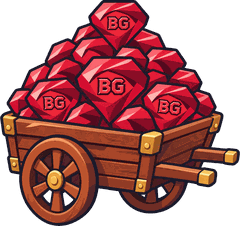
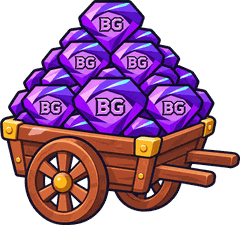
Rivales con su aspecto y su subsuelo; Candado y Setas; diamantes morados; carga en azul
- Los castillos rivales llevan aspecto: cada reino alterna dos de su tema en los vasallos
  y uno propio en el castillo real; en la batalla rápida, uno al azar. Volteados, con su
  arquero, su versión dañada y sus ruinas.
- El subsuelo mezcla tu tema (tu mitad) con el del rival (la suya), fundidos por el centro.
- Fortaleza del Candado y Castillo de las Setas: aspectos 19 y 20, con sus tres estados.
- Packs de diamantes de la Tienda, en morado.
- La pantalla de carga usa el fondo azul, como las demás.

Claude-Session: https://claude.ai/code/session_01JNP7QCwsBCjLSMGndzwo2W

diff --git a/docs/index.html b/docs/index.html
@@ -501,8 +501,7 @@ body.nav .screen.maps .mapscroll { padding-bottom: 0; }
 .loadbar { height: 22px; padding: 5px 7px; }
 .xpbar span, #loadfill { background: none; border-style: solid; border-image: url(img/ui/barra_relleno.png) 11 12 fill / 5px 6px; box-sizing: border-box; }
 /* fondos: la carga, con los héroes arriba y abajo y el logo en el hueco del centro; las demás pantallas, el azul */
-#carga { background: #131a31 url(img/ui/fondo_carga.jpg) center / cover no-repeat; }
-@media (orientation: landscape) { #carga { background: url(img/ui/fondo_carga.jpg) center / auto 100% no-repeat, linear-gradient(rgba(16,22,46,.72), rgba(16,22,46,.8)), #17306e url(img/ui/fondo_azul.jpg) center / cover no-repeat; } }   /* entero en el centro y, a los lados, el azul */
+#carga { background: linear-gradient(rgba(16,22,46,.5), rgba(16,22,46,.66)), #17306e url(img/ui/fondo_azul.jpg) center / cover no-repeat; }   /* el mismo fondo azul que las demás pantallas */
 #carga #loadtxt, #carga .tip { background: rgba(16,21,42,.78); border-radius: 12px; padding: 4px 12px; text-shadow: 0 1px 0 #000; }   /* legibles aunque pasen sobre los héroes */
 .screen.tabscr, .screen.hogar { background: linear-gradient(rgba(16,22,46,.62), rgba(16,22,46,.72)), #17306e url(img/ui/fondo_azul.jpg) center / cover no-repeat; }
 @media (orientation: landscape) and (max-height: 520px) { .side { top: calc(var(--st) + 70px); gap: 4px; } .sico { width: 38px; height: 38px; } .slbl { display: none; } .sbtn { width: 46px; } }
@@ -3533,7 +3532,10 @@ function castleArt(team, st = '') {
   const sk = CASTLE_SKIN[team];
   if (sk) {
     const s = st === '_danado' ? 'd' : st === '_destruido' ? 'r' : '', key = 'cas_' + sk.id + (s ? '_' + s : ''), ok = !s || (scene && scene.textures.exists(key));
-    if (ok || s === 'd') { const dy = ok && s && sk[s] ? sk[s].dy : 0; return { key: ok ? key : 'cas_' + sk.id, plat: [sk.plat[0], sk.plat[1] + dy], arch: [sk.arch[0], sk.arch[1] + dy] }; }
+    if (ok || s === 'd') {   // el rival lo tiene al revés (volteado): su arquero queda a la izquierda
+      const dy = ok && s && sk[s] ? sk[s].dy : 0, fx = x => team === 'purple' ? 520 - x : x;
+      return { key: ok ? key : 'cas_' + sk.id, plat: [fx(sk.plat[0]), sk.plat[1] + dy], arch: [fx(sk.arch[0]), sk.arch[1] + dy], flip: team === 'purple' };
+    }
   }
   return { key: CASTLE_ART[team].key + st, plat: CASTLE_ART[team].plat, arch: CASTLE_ART[team].arch };
 }
@@ -3640,7 +3642,7 @@ function drawCastleUI(dt) {
     const ci = castleImg[team], st = !c.alive ? '_destruido' : c.hp / c.max <= 0.5 ? '_danado' : '';
     if (ci.state !== st) {   // cambia de aspecto: polvo y cascotes
       if (ci.state !== undefined && B && B.t > 0.1) burst(ci.x, GROUND - 40, 0xbfc4d4, st === '_destruido' ? 30 : 14, st === '_destruido' ? 320 : 200);
-      ci.state = st; const A = castleArt(team, st); ci.setTexture(colorTex(A.key, TEAM_COLOR[team], TEAM_EMB[team]));
+      ci.state = st; const A = castleArt(team, st); ci.setTexture(colorTex(A.key, TEAM_COLOR[team], TEAM_EMB[team])).setFlipX(!!A.flip);
       ci.setOrigin(A.plat[0] / ci.width, A.plat[1] / ci.height).setScale(CASTLE_W / ci.width);
       const th = team === 'blue' ? throneImg : throneImgP;   // sin castillo no hay trono: cae entre los cascotes
       if (th) { scene.tweens.killTweensOf(th); if (st === '_destruido') scene.tweens.add({ targets: th, y: THRONE.y + 110, alpha: 0, angle: team === 'blue' ? 25 : -25, duration: 700, ease: 'Quad.in' }); else th.setPosition(team === 'blue' ? THRONE.x : W - THRONE.x, THRONE.y).setAlpha(1).setAngle(0); }
@@ -3780,7 +3782,7 @@ function drawScenery(sc) {
    en vertical, entre el camino y el panel de cartas; en horizontal, en la esquina libre. Si el dibujo no llega a cubrir todo
    el ancho, la tierra del medio se repite en espejo. Mientras se carga, uno provisional hecho aquí. ---- */
 const SUBSUELO = {"xa": 525, "xb": 922, "temas": {"arena": {"L": {"muro": [103, 296, 383, 473], "gemas": [[62, 410, 29, 35], [449, 410, 28, 35]]}, "R": {"muro": [1012, 296, 1311, 473], "gemas": [[1378, 410, 28, 34], [971, 411, 29, 34]]}, "fondo": "#af4f3d"}, "carnero": {"L": {"muro": [102, 299, 437, 488], "gemas": [[228, 251, 30, 34], [59, 411, 30, 38], [453, 411, 31, 38]]}, "R": {"muro": [1010, 300, 1380, 488], "gemas": [[1150, 251, 30, 34], [966, 412, 31, 37], [1393, 412, 30, 37]]}, "fondo": "#734145"}, "dragon": {"L": {"muro": [91, 297, 426, 490], "gemas": [[446, 413, 29, 34], [46, 414, 30, 33]]}, "R": {"muro": [997, 297, 1357, 490], "gemas": [[951, 413, 30, 35], [1376, 413, 29, 34]]}, "fondo": "#513d41"}, "engranaje": {"L": {"muro": [110, 296, 437, 498], "gemas": [[68, 418, 28, 36], [457, 418, 28, 37]]}, "R": {"muro": [1011, 296, 1363, 498], "gemas": [[968, 419, 28, 36], [1384, 419, 28, 36]]}, "fondo": "#4b4f6a"}, "escarabajo": {"L": {"muro": [97, 280, 433, 490], "gemas": [[52, 398, 31, 34], [448, 413, 29, 33]]}, "R": {"muro": [1004, 279, 1362, 490], "gemas": [[958, 398, 32, 35], [1377, 413, 29, 33]]}, "fondo": "#262d69"}, "farol": {"L": {"muro": [96, 293, 445, 500], "gemas": [[53, 416, 31, 38], [456, 416, 30, 38]]}, "R": {"muro": [1003, 293, 1369, 500], "gemas": [[960, 417, 30, 38], [1381, 417, 30, 37]]}, "fondo": "#654148"}, "golem": {"L": {"muro": [118, 300, 451, 502], "gemas": [[75, 411, 30, 37], [465, 411, 30, 38]]}, "R": {"muro": [1053, 300, 1389, 502], "gemas": [[1010, 412, 30, 37], [1402, 412, 29, 36]]}, "fondo": "#114949"}, "grifo": {"L": {"muro": [118, 296, 428, 490], "gemas": [[76, 412, 29, 35], [443, 412, 29, 35]]}, "R": {"muro": [1022, 296, 1361, 490], "gemas": [[981, 413, 29, 34], [1378, 413, 28, 34]]}, "fondo": "#505061"}, "hielo": {"L": {"muro": [96, 295, 439, 506], "gemas": [[51, 413, 30, 38], [450, 413, 30, 38]]}, "R": {"muro": [1016, 295, 1362, 505], "gemas": [[971, 413, 31, 38], [1376, 413, 31, 38]]}, "fondo": "#434a7a"}, "loto": {"L": {"muro": [110, 308, 429, 498], "gemas": [[71, 415, 28, 35], [446, 415, 27, 35]]}, "R": {"muro": [1031, 311, 1372, 498], "gemas": [[992, 415, 29, 35], [1388, 415, 28, 35]]}, "fondo": "#395e56"}, "luna": {"L": {"muro": [105, 302, 406, 473], "gemas": [[448, 414, 29, 36], [62, 415, 29, 35]]}, "R": {"muro": [1019, 302, 1327, 473], "gemas": [[1376, 414, 30, 37], [975, 415, 31, 35]]}, "fondo": "#4f5277"}, "marea": {"L": {"muro": [88, 290, 402, 476], "gemas": [[45, 412, 29, 38], [461, 414, 28, 37]]}, "R": {"muro": [1019, 292, 1383, 496], "gemas": [[973, 412, 29, 37], [1395, 415, 28, 36]]}, "fondo": "#e3b78c"}, "murcielago": {"L": {"muro": [103, 289, 449, 501], "gemas": [[62, 414, 30, 35], [462, 414, 29, 35]]}, "R": {"muro": [1022, 289, 1383, 501], "gemas": [[981, 415, 29, 35], [1397, 415, 29, 35]]}, "fondo": "#523f61"}, "pagoda": {"L": {"muro": [95, 290, 415, 486], "gemas": [[56, 412, 30, 39], [467, 412, 30, 39]]}, "R": {"muro": [1001, 294, 1321, 480], "gemas": [[1395, 413, 29, 38], [958, 414, 30, 37]]}, "fondo": "#6c405b"}, "piedra": {"L": {"muro": [100, 298, 452, 496], "gemas": [[59, 414, 28, 35], [449, 414, 28, 35]]}, "R": {"muro": [1000, 298, 1367, 496], "gemas": [[1386, 415, 28, 34], [959, 416, 28, 33]]}, "fondo": "#744e50"}, "roble": {"L": {"muro": [107, 294, 404, 490], "gemas": [[64, 407, 28, 36], [418, 408, 29, 35]]}, "R": {"muro": [1070, 294, 1365, 490], "gemas": [[1027, 409, 28, 33], [1382, 409, 28, 34]]}, "fondo": "#6c4445"}, "setas": {"L": {"muro": [117, 312, 440, 491], "gemas": [[75, 409, 29, 37], [452, 415, 27, 34]]}, "R": {"muro": [1047, 312, 1378, 491], "gemas": [[1005, 409, 29, 38], [1391, 416, 27, 33]]}, "fondo": "#335a67"}, "sol": {"L": {"muro": [123, 318, 424, 491], "gemas": [[80, 415, 28, 33], [439, 415, 28, 32]]}, "R": {"muro": [1051, 318, 1360, 491], "gemas": [[1379, 414, 27, 33], [1007, 416, 29, 32]]}, "fondo": "#70575b"}, "trueno": {"L": {"muro": [101, 291, 432, 491], "gemas": [[60, 405, 28, 35], [450, 410, 27, 34]]}, "R": {"muro": [1022, 290, 1360, 491], "gemas": [[981, 404, 28, 35], [1378, 411, 27, 33]]}, "fondo": "#686486"}, "vitral": {"L": {"muro": [110, 293, 433, 497], "gemas": [[66, 412, 28, 33], [450, 413, 28, 33]]}, "R": {"muro": [1036, 293, 1369, 497], "gemas": [[992, 413, 28, 33], [1387, 413, 28, 32]]}, "fondo": "#bd6371"}}};
-let SUB_Y = GROUND + 200, SUB_TEMA = 'piedra', SUB_L = null, subColorKey = null;   // dónde empieza, su tema y cómo se ha colocado (lo usa la cripta)
+let SUB_Y = GROUND + 200, SUB_TEMA = 'piedra', SUB_TEMA_P = 'piedra', SUB_L = null, subColorKey = null, subParKey = null;   // dónde empieza, su tema y cómo se ha colocado (lo usa la cripta)
 const subCarga = {};
 function subTex(tema, cb) {   // carga el dibujo de un tema con sus tres franjas: cripta, tierra y cripta
   const key = 'sub_' + tema; if (!scene || !SUBSUELO.temas[tema]) return;
@@ -3796,13 +3798,26 @@ function subFranjas(tex) {
   const w = tex.source[0].width, h = tex.source[0].height, { xa, xb } = SUBSUELO;
   tex.add('L', 0, 0, 0, xa, h); tex.add('M', 0, xa, 0, xb - xa, h); tex.add('R', 0, xb, 0, w - xb, h); return tex;
 }
-function subColor(sc, tema) {   // las gemas de cada cripta, con el color de su bando (cian y morado son los de siempre)
-  const base = 'sub_' + tema, cb = TEAM_COLOR.blue, cp = TEAM_COLOR.purple;
+function subPar(sc, a, b) {   // tu mitad con tu tema y la del rival con el suyo; la tierra del medio pasa de uno a otro poco a poco
+  if (a === b || !sc.textures.exists('sub_' + b)) return 'sub_' + a;
+  const key = 'subp_' + a + '|' + b; if (sc.textures.exists(key)) return key;
+  if (subParKey && sc.textures.exists(subParKey)) sc.textures.remove(subParKey);
+  const A = sc.textures.get('sub_' + a).getSourceImage(), Bi = sc.textures.get('sub_' + b).getSourceImage(), w = A.width, h = A.height, { xa, xb } = SUBSUELO;
+  const cv = document.createElement('canvas'); cv.width = w; cv.height = h; const c = cv.getContext('2d');
+  c.drawImage(A, 0, 0); c.drawImage(Bi, xb, 0, w - xb, h, xb, 0, w - xb, h);
+  const m = document.createElement('canvas'); m.width = xb - xa; m.height = h; const mc = m.getContext('2d');
+  mc.drawImage(Bi, xa, 0, xb - xa, h, 0, 0, xb - xa, h); mc.globalCompositeOperation = 'destination-in';
+  const g = mc.createLinearGradient(0, 0, xb - xa, 0); g.addColorStop(0.15, 'rgba(0,0,0,0)'); g.addColorStop(0.85, 'rgba(0,0,0,1)'); mc.fillStyle = g; mc.fillRect(0, 0, xb - xa, h);
+  c.drawImage(m, xa, 0);
+  subParKey = key; subFranjas(sc.textures.addCanvas(key, cv)); return key;
+}
+function subColor(sc, base, TL, TR) {   // las gemas de cada cripta, con el color de su bando (cian y morado son los de siempre)
+  const cb = TEAM_COLOR.blue, cp = TEAM_COLOR.purple;
   if (cb === 'azul' && cp === 'morado') return base;
   const key = base + '@' + cb + ',' + cp; if (sc.textures.exists(key)) return key;
   if (subColorKey && sc.textures.exists(subColorKey)) sc.textures.remove(subColorKey);   // solo se guarda la última
   const src = sc.textures.get(base).getSourceImage(), cv = document.createElement('canvas'); cv.width = src.width; cv.height = src.height;
-  const c = cv.getContext('2d', { willReadFrequently: true }), T = SUBSUELO.temas[tema]; c.drawImage(src, 0, 0);
+  const c = cv.getContext('2d', { willReadFrequently: true }), T = { L: TL.L, R: TR.R }; c.drawImage(src, 0, 0);
   for (const [lado, col, def, h0, h1] of [['L', cb, 'azul', 0.44, 0.58], ['R', cp, 'morado', 0.70, 0.86]]) {
     if (col === def || !COLORES[col]) continue;
     const t = [1, 3, 5].map(i => parseInt(COLORES[col][1].slice(i, i + 2), 16) / 255), dark = Math.max(...t) < 0.25, light = Math.min(...t) > 0.85;
@@ -3852,7 +3867,8 @@ function drawSubsuelo(sc, ytop, add, cx, vw, bot, grass) {
   SUB_Y = ytop; SUB_L = null;
   const T = SUBSUELO.temas[SUB_TEMA];
   if (!T || !sc.textures.exists('sub_' + SUB_TEMA)) { subTex(SUB_TEMA, () => drawScenery(scene)); return subsueloProv(sc, ytop, add, cx, vw, bot, grass); }
-  const key = subColor(sc, SUB_TEMA), src = sc.textures.get(key).getSourceImage(), IW = src.width, IH = src.height, { xa, xb } = SUBSUELO;
+  const TP = SUBSUELO.temas[SUB_TEMA_P] && sc.textures.exists('sub_' + SUB_TEMA_P) ? SUBSUELO.temas[SUB_TEMA_P] : T;
+  const key = subColor(sc, subPar(sc, SUB_TEMA, TP === T ? SUB_TEMA : SUB_TEMA_P), T, TP), src = sc.textures.get(key).getSourceImage(), IW = src.width, IH = src.height, { xa, xb } = SUBSUELO;
   // lo que se ve del subsuelo (en píxeles css): en batalla, hasta el panel de cartas o, en horizontal, la esquina libre a su lado
   const z = cam.zoom, k = DPR / z, left = cx - vw / 2, top = bot - cam.height / z, ug = (ytop - top) / k, ih = window.innerHeight;
   let Hc = (ih - ug) * k, Wc = vw, esq = false;
@@ -5672,11 +5688,12 @@ const DEFENSAS = {
 const defLv = k => (perfil.def || {})[k] || 0;
 const defCoste = k => Math.round(DEFENSAS[k].base * Math.pow(1.32, defLv(k)) / 10) * 10;
 // aspectos del castillo: dibujos propios (img/castillos) con el suelo del torreón, el arquero y el estandarte grande de cada uno
-const ASPECTOS_POS = {"arena": {"h": 456, "plat": [260, 91], "arch": [489, 131], "ban": [0.3942, 0.3772, 0.0885, 0.2061], "d": {"dy": 0, "h": 459, "ban": [0.3942, 0.3747, 0.0904, 0.1852]}, "r": {"dy": 0, "h": 458}}, "carnero": {"h": 434, "plat": [260, 87], "arch": [485, 99], "ban": [0.4615, 0.3571, 0.075, 0.1705], "d": {"dy": 0, "h": 438, "ban": [0.4615, 0.3539, 0.0769, 0.1667]}, "r": {"dy": 0, "h": 434}}, "dragon": {"h": 450, "plat": [260, 90], "arch": [477, 129], "ban": [0.4058, 0.3978, 0.0865, 0.1822], "d": {"dy": 1, "h": 456, "ban": [0.4038, 0.3925, 0.0904, 0.1601]}, "r": {"dy": 0, "h": 457}}, "engranaje": {"h": 449, "plat": [260, 90], "arch": [479, 122], "ban": [0.4115, 0.3608, 0.0788, 0.2183], "d": {"dy": 1, "h": 457, "ban": [0.4096, 0.3567, 0.0846, 0.1904]}, "r": {"dy": 0, "h": 456}}, "escarabajo": {"h": 444, "plat": [260, 89], "arch": [485, 125], "ban": [0.4346, 0.3401, 0.0712, 0.1644], "d": {"dy": 2, "h": 449, "ban": [0.4346, 0.3408, 0.0788, 0.1604]}, "r": {"dy": 0, "h": 447}}, "farol": {"h": 462, "plat": [260, 92], "arch": [485, 135], "ban": [0.4365, 0.3853, 0.0827, 0.1667], "d": {"dy": 3, "h": 468, "ban": [0.4365, 0.3868, 0.0885, 0.1624]}, "r": {"dy": 0, "h": 462}}, "golem": {"h": 455, "plat": [260, 91], "arch": [482, 132], "ban": [0.4577, 0.3736, 0.0827, 0.156], "d": {"dy": 3, "h": 461, "ban": [0.4577, 0.3731, 0.0808, 0.1584]}, "r": {"dy": 0, "h": 457}}, "grifo": {"h": 456, "plat": [260, 91], "arch": [486, 131], "ban": [0.4019, 0.3991, 0.0981, 0.2061], "d": {"dy": 3, "h": 462, "ban": [0.4019, 0.4004, 0.1, 0.1797]}, "r": {"dy": 0, "h": 461}}, "hielo": {"h": 472, "plat": [260, 94], "arch": [486, 136], "ban": [0.4038, 0.3792, 0.0923, 0.2055], "d": {"dy": 1, "h": 477, "ban": [0.4038, 0.3774, 0.0942, 0.1866]}, "r": {"dy": 0, "h": 474}}, "loto": {"h": 456, "plat": [260, 91], "arch": [483, 136], "ban": [0.4538, 0.3684, 0.0788, 0.1776], "d": {"dy": 2, "h": 458, "ban": [0.4538, 0.369, 0.0788, 0.1659]}, "r": {"dy": 0, "h": 456}}, "luna": {"h": 467, "plat": [260, 93], "arch": [481, 135], "ban": [0.3904, 0.3919, 0.0808, 0.197], "d": {"dy": 2, "h": 472, "ban": [0.3904, 0.3919, 0.0846, 0.1801]}, "r": {"dy": 0, "h": 467}}, "marea": {"h": 463, "plat": [260, 93], "arch": [482, 138], "ban": [0.4019, 0.3888, 0.0846, 0.203], "d": {"dy": 0, "h": 463, "ban": [0.4, 0.3888, 0.0885, 0.1836]}, "r": {"dy": 0, "h": 463}}, "murcielago": {"h": 447, "plat": [260, 89], "arch": [480, 129], "ban": [0.4596, 0.3714, 0.0808, 0.179], "d": {"dy": 1, "h": 449, "ban": [0.4596, 0.3719, 0.0808, 0.1804]}, "r": {"dy": 0, "h": 456}}, "pagoda": {"h": 440, "plat": [260, 88], "arch": [482, 122], "ban": [0.4654, 0.4205, 0.0692, 0.1523], "d": {"dy": 1, "h": 443, "ban": [0.4654, 0.4199, 0.0712, 0.1693]}, "r": {"dy": 0, "h": 442}}, "roble": {"h": 458, "plat": [260, 92], "arch": [480, 140], "ban": [0.4038, 0.3908, 0.0827, 0.2074], "d": {"dy": 0, "h": 459, "ban": [0.4038, 0.39, 0.0846, 0.1743]}, "r": {"dy": 0, "h": 459}}, "sol": {"h": 427, "plat": [260, 85], "arch": [484, 115], "ban": [0.4481, 0.3653, 0.0654, 0.1522], "d": {"dy": 0, "h": 429, "ban": [0.4481, 0.3636, 0.0769, 0.1422]}, "r": {"dy": 0, "h": 435}}, "trueno": {"h": 434, "plat": [260, 87], "arch": [478, 130], "ban": [0.4212, 0.3917, 0.0827, 0.2166], "d": {"dy": 5, "h": 441, "ban": [0.4212, 0.3968, 0.0885, 0.1701]}, "r": {"dy": 0, "h": 434}}, "vitral": {"h": 468, "plat": [260, 94], "arch": [482, 146], "ban": [0.4269, 0.3697, 0.0827, 0.1752], "d": {"dy": 3, "h": 473, "ban": [0.4288, 0.3721, 0.0808, 0.1522]}, "r": {"dy": 0, "h": 468}}};
+const ASPECTOS_POS = {"arena": {"h": 456, "plat": [260, 91], "arch": [489, 131], "ban": [0.3942, 0.3772, 0.0885, 0.2061], "d": {"dy": 0, "h": 459, "ban": [0.3942, 0.3747, 0.0904, 0.1852]}, "r": {"dy": 0, "h": 458}}, "candado": {"h": 433, "plat": [260, 87], "arch": [488, 123], "ban": [0.4519, 0.3764, 0.0788, 0.1848], "d": {"dy": 2, "h": 437, "ban": [0.4519, 0.3753, 0.0865, 0.167]}, "r": {"dy": 0, "h": 433}}, "carnero": {"h": 434, "plat": [260, 87], "arch": [485, 99], "ban": [0.4615, 0.3571, 0.075, 0.1705], "d": {"dy": 0, "h": 438, "ban": [0.4615, 0.3539, 0.0769, 0.1667]}, "r": {"dy": 0, "h": 434}}, "dragon": {"h": 450, "plat": [260, 90], "arch": [477, 129], "ban": [0.4058, 0.3978, 0.0865, 0.1822], "d": {"dy": 1, "h": 456, "ban": [0.4038, 0.3925, 0.0904, 0.1601]}, "r": {"dy": 0, "h": 457}}, "engranaje": {"h": 449, "plat": [260, 90], "arch": [479, 122], "ban": [0.4115, 0.3608, 0.0788, 0.2183], "d": {"dy": 1, "h": 457, "ban": [0.4096, 0.3567, 0.0846, 0.1904]}, "r": {"dy": 0, "h": 456}}, "escarabajo": {"h": 444, "plat": [260, 89], "arch": [485, 125], "ban": [0.4346, 0.3401, 0.0712, 0.1644], "d": {"dy": 2, "h": 449, "ban": [0.4346, 0.3408, 0.0788, 0.1604]}, "r": {"dy": 0, "h": 447}}, "farol": {"h": 462, "plat": [260, 92], "arch": [485, 135], "ban": [0.4365, 0.3853, 0.0827, 0.1667], "d": {"dy": 3, "h": 468, "ban": [0.4365, 0.3868, 0.0885, 0.1624]}, "r": {"dy": 0, "h": 462}}, "golem": {"h": 455, "plat": [260, 91], "arch": [482, 132], "ban": [0.4577, 0.3736, 0.0827, 0.156], "d": {"dy": 3, "h": 461, "ban": [0.4577, 0.3731, 0.0808, 0.1584]}, "r": {"dy": 0, "h": 457}}, "grifo": {"h": 456, "plat": [260, 91], "arch": [486, 131], "ban": [0.4019, 0.3991, 0.0981, 0.2061], "d": {"dy": 3, "h": 462, "ban": [0.4019, 0.4004, 0.1, 0.1797]}, "r": {"dy": 0, "h": 461}}, "hielo": {"h": 472, "plat": [260, 94], "arch": [486, 136], "ban": [0.4038, 0.3792, 0.0923, 0.2055], "d": {"dy": 1, "h": 477, "ban": [0.4038, 0.3774, 0.0942, 0.1866]}, "r": {"dy": 0, "h": 474}}, "loto": {"h": 456, "plat": [260, 91], "arch": [483, 136], "ban": [0.4538, 0.3684, 0.0788, 0.1776], "d": {"dy": 2, "h": 458, "ban": [0.4538, 0.369, 0.0788, 0.1659]}, "r": {"dy": 0, "h": 456}}, "luna": {"h": 467, "plat": [260, 93], "arch": [481, 135], "ban": [0.3904, 0.3919, 0.0808, 0.197], "d": {"dy": 2, "h": 472, "ban": [0.3904, 0.3919, 0.0846, 0.1801]}, "r": {"dy": 0, "h": 467}}, "marea": {"h": 463, "plat": [260, 93], "arch": [482, 138], "ban": [0.4019, 0.3888, 0.0846, 0.203], "d": {"dy": 0, "h": 463, "ban": [0.4, 0.3888, 0.0885, 0.1836]}, "r": {"dy": 0, "h": 463}}, "murcielago": {"h": 447, "plat": [260, 89], "arch": [480, 129], "ban": [0.4596, 0.3714, 0.0808, 0.179], "d": {"dy": 1, "h": 449, "ban": [0.4596, 0.3719, 0.0808, 0.1804]}, "r": {"dy": 0, "h": 456}}, "pagoda": {"h": 440, "plat": [260, 88], "arch": [482, 122], "ban": [0.4654, 0.4205, 0.0692, 0.1523], "d": {"dy": 1, "h": 443, "ban": [0.4654, 0.4199, 0.0712, 0.1693]}, "r": {"dy": 0, "h": 442}}, "roble": {"h": 458, "plat": [260, 92], "arch": [480, 140], "ban": [0.4038, 0.3908, 0.0827, 0.2074], "d": {"dy": 0, "h": 459, "ban": [0.4038, 0.39, 0.0846, 0.1743]}, "r": {"dy": 0, "h": 459}}, "setas": {"h": 454, "plat": [260, 91], "arch": [484, 134], "ban": [0.4404, 0.3855, 0.0885, 0.1828], "d": {"dy": 1, "h": 455, "ban": [0.4404, 0.3868, 0.0885, 0.178]}, "r": {"dy": 0, "h": 455}}, "sol": {"h": 427, "plat": [260, 85], "arch": [484, 115], "ban": [0.4481, 0.3653, 0.0654, 0.1522], "d": {"dy": 0, "h": 429, "ban": [0.4481, 0.3636, 0.0769, 0.1422]}, "r": {"dy": 0, "h": 435}}, "trueno": {"h": 434, "plat": [260, 87], "arch": [478, 130], "ban": [0.4212, 0.3917, 0.0827, 0.2166], "d": {"dy": 5, "h": 441, "ban": [0.4212, 0.3968, 0.0885, 0.1701]}, "r": {"dy": 0, "h": 434}}, "vitral": {"h": 468, "plat": [260, 94], "arch": [482, 146], "ban": [0.4269, 0.3697, 0.0827, 0.1752], "d": {"dy": 3, "h": 473, "ban": [0.4288, 0.3721, 0.0808, 0.1522]}, "r": {"dy": 0, "h": 468}}};
 const ASPECTOS = [['piedra', 'Castillo de piedra'], ['roble', 'Fortaleza del Roble'], ['luna', 'Castillo Lunar'], ['vitral', 'Catedral de Vitrales'], ['marea', 'Alcázar de las Mareas'],
   ['dragon', 'Fortaleza del Dragón'], ['engranaje', 'Castillo de Engranajes'], ['hielo', 'Fortaleza de Hielo'], ['grifo', 'Alcázar del Grifo'], ['arena', 'Fortaleza de Arena'],
   ['trueno', 'Castillo del Trueno'], ['pagoda', 'Castillo Pagoda'], ['farol', 'Castillo de los Faroles'], ['carnero', 'Fortín del Carnero'], ['escarabajo', 'Templo del Escarabajo'],
-  ['golem', 'Fortaleza Gólem'], ['murcielago', 'Castillo del Murciélago'], ['loto', 'Palacio del Loto'], ['sol', 'Ciudadela del Sol']];
+  ['golem', 'Fortaleza Gólem'], ['murcielago', 'Castillo del Murciélago'], ['loto', 'Palacio del Loto'], ['sol', 'Ciudadela del Sol'],
+  ['candado', 'Fortaleza del Candado'], ['setas', 'Castillo de las Setas']];
 const ASP_PRECIO = 150;
 for (const [id, v] of Object.entries(ASPECTOS_POS)) if (v.ban) { BANNERS['cas_' + id] = v.ban; BANNERS['cas_' + id + '_d'] = (v.d && v.d.ban) || v.ban; }
 const aspTiene = id => id === 'piedra' || perfil.all || (perfil.aspectos || []).includes(id);
@@ -5881,12 +5898,27 @@ function atkK(u) { return moveK(u); }   // la velocidad de ataque sigue a la de 
 const _ghR = gullHaste;
 gullHaste = function (u) { return _ghR(u) * (mode === 'fight' && B && !B.idle ? moveK(u) : 1); };
 const teamBuffK = team => team === 'blue' && B && B.beast && B.beast.id === 'grifo' ? 1 + B.beast.v : 1;
+// aspecto de los castillos rivales: los vasallos de cada reino alternan dos de su tema y el castillo real lleva el suyo;
+// en la batalla rápida (y en la del menú), uno al azar. 'piedra' es el castillo de siempre
+const RIVAL_ASP = { praderas: [['piedra', 'roble'], 'grifo'], bosque: [['roble', 'pagoda'], 'golem'], desierto: [['arena', 'escarabajo'], 'sol'],
+  nieve: [['hielo', 'luna'], 'trueno'], pantano: [['loto', 'murcielago'], 'golem'], volcan: [['farol', 'dragon'], 'dragon'], playa: [['marea', 'vitral'], 'marea'],
+  setas: [['setas', 'loto'], 'setas'], huesos: [['carnero', 'murcielago'], 'dragon'], engranajes: [['engranaje', 'candado'], 'engranaje'],
+  cristal: [['vitral', 'luna'], 'vitral'], cementerio: [['murcielago', 'candado'], 'murcielago'], cielo: [['grifo', 'sol'], 'pagoda'] };
+function rivalAspecto(o) {
+  if (o.run && o.run.kind === 'nivel') { const r = RIVAL_ASP[o.run.k], lv = KD(o.run.k).levels[o.run.i]; return !r ? null : lv.royal ? r[1] : r[0][o.run.i % r[0].length]; }
+  const ids = ASPECTOS.map(a => a[0]); return ids[Math.floor(Math.random() * ids.length)];
+}
 const _resetR = resetBattle;
 resetBattle = function (o = {}) {
   _resetR(o);
   const sk = mySkin(); CASTLE_SKIN.blue = sk && scene && scene.textures.exists('cas_' + sk) ? Object.assign({ id: sk }, ASPECTOS_POS[sk]) : null;
   SUB_TEMA = SUBSUELO.temas[sk] ? sk : 'piedra';   // el subsuelo, con las criptas a juego con tu castillo
   if (!o.sim && scene) subTex(SUB_TEMA, () => drawScenery(scene));
+  // el rival, con su aspecto, su subsuelo y su cripta
+  const ps = o.sim ? null : rivalAspecto(o), esta = B; CASTLE_SKIN.purple = null; if (castleImg.purple) castleImg.purple.state = undefined;
+  SUB_TEMA_P = SUBSUELO.temas[ps] ? ps : 'piedra';
+  if (ps && ps !== 'piedra' && ASPECTOS_POS[ps] && scene) skinTex(ps, () => { if (B !== esta) return; CASTLE_SKIN.purple = Object.assign({ id: ps }, ASPECTOS_POS[ps]); if (castleImg.purple) castleImg.purple.state = undefined; });
+  if (!o.sim && scene) subTex(SUB_TEMA_P, () => { if (B === esta) drawScenery(scene); });
   if (sk && !CASTLE_SKIN.blue) skinTex(sk);
   if (castleImg.blue) castleImg.blue.state = undefined;   // se vuelve a pintar con su aspecto
   const real = !o.demo && !o.sim;
@@ -6154,7 +6186,7 @@ loaded = function () { _loadedR(); skinTex(mySkin()); subTex(SUBSUELO.temas[mySk
 const _dsR = drawScenery;
 drawScenery = function (sc) { _dsR(sc); colocaCripta(); };
 window.__sub = () => { const gm = window.__game, z = cam.zoom, k = DPR / z; return { SUB_Y, k, left: cam.scrollX + cam.width / 2 - gm.scale.width / 2 / z, top: cam.scrollY + cam.height / 2 - gm.scale.height / 2 / z, vw: gm.scale.width / z, cripta: CRIPTA && { x: CRIPTA.x, y: CRIPTA.y, w: CRIPTA.w, h: CRIPTA.h }, tema: SUB_TEMA, capa: SUB_L && { s: SUB_L.s, yi: SUB_L.yi, Lx: SUB_L.Lx, Rx: SUB_L.Rx, esq: SUB_L.esq }, bst: BST && { x: BST.x, y: BST.y, h: BST.displayHeight, v: BST.visible } }; };
-window.__B = () => B; window.__skin = () => CASTLE_SKIN.blue; window.__openHogar = openHogar; window.__openEdif = openEdif; window.__lanzar = lanzar; window.__cuartel = () => cuSlots();
+window.__B = () => B; window.__skin = () => CASTLE_SKIN.blue; window.__skinP = () => CASTLE_SKIN.purple && CASTLE_SKIN.purple.id; window.__openHogar = openHogar; window.__openEdif = openEdif; window.__lanzar = lanzar; window.__cuartel = () => cuSlots();
 
 /* ==== Eventos. Fijo: el Abismo del Despertar. Cada día espera en el fondo una unidad distinta: si es legendaria hay que bajar
    50 niveles; si es ascendida, 60. En cada nivel hay 4 caminos: 3 bajan (y dan botín) y 1 lleva al vacío o a la lava.

diff --git a/prototipos/batalla/batalla.js b/prototipos/batalla/batalla.js
@@ -27,7 +27,10 @@ function castleArt(team, st = '') {
   const sk = CASTLE_SKIN[team];
   if (sk) {
     const s = st === '_danado' ? 'd' : st === '_destruido' ? 'r' : '', key = 'cas_' + sk.id + (s ? '_' + s : ''), ok = !s || (scene && scene.textures.exists(key));
-    if (ok || s === 'd') { const dy = ok && s && sk[s] ? sk[s].dy : 0; return { key: ok ? key : 'cas_' + sk.id, plat: [sk.plat[0], sk.plat[1] + dy], arch: [sk.arch[0], sk.arch[1] + dy] }; }
+    if (ok || s === 'd') {   // el rival lo tiene al revés (volteado): su arquero queda a la izquierda
+      const dy = ok && s && sk[s] ? sk[s].dy : 0, fx = x => team === 'purple' ? 520 - x : x;
+      return { key: ok ? key : 'cas_' + sk.id, plat: [fx(sk.plat[0]), sk.plat[1] + dy], arch: [fx(sk.arch[0]), sk.arch[1] + dy], flip: team === 'purple' };
+    }
   }
   return { key: CASTLE_ART[team].key + st, plat: CASTLE_ART[team].plat, arch: CASTLE_ART[team].arch };
 }
@@ -134,7 +137,7 @@ function drawCastleUI(dt) {
     const ci = castleImg[team], st = !c.alive ? '_destruido' : c.hp / c.max <= 0.5 ? '_danado' : '';
     if (ci.state !== st) {   // cambia de aspecto: polvo y cascotes
       if (ci.state !== undefined && B && B.t > 0.1) burst(ci.x, GROUND - 40, 0xbfc4d4, st === '_destruido' ? 30 : 14, st === '_destruido' ? 320 : 200);
-      ci.state = st; const A = castleArt(team, st); ci.setTexture(colorTex(A.key, TEAM_COLOR[team], TEAM_EMB[team]));
+      ci.state = st; const A = castleArt(team, st); ci.setTexture(colorTex(A.key, TEAM_COLOR[team], TEAM_EMB[team])).setFlipX(!!A.flip);
       ci.setOrigin(A.plat[0] / ci.width, A.plat[1] / ci.height).setScale(CASTLE_W / ci.width);
       const th = team === 'blue' ? throneImg : throneImgP;   // sin castillo no hay trono: cae entre los cascotes
       if (th) { scene.tweens.killTweensOf(th); if (st === '_destruido') scene.tweens.add({ targets: th, y: THRONE.y + 110, alpha: 0, angle: team === 'blue' ? 25 : -25, duration: 700, ease: 'Quad.in' }); else th.setPosition(team === 'blue' ? THRONE.x : W - THRONE.x, THRONE.y).setAlpha(1).setAngle(0); }
@@ -274,7 +277,7 @@ function drawScenery(sc) {
    en vertical, entre el camino y el panel de cartas; en horizontal, en la esquina libre. Si el dibujo no llega a cubrir todo
    el ancho, la tierra del medio se repite en espejo. Mientras se carga, uno provisional hecho aquí. ---- */
 const SUBSUELO = __SUBSUELO__;
-let SUB_Y = GROUND + 200, SUB_TEMA = 'piedra', SUB_L = null, subColorKey = null;   // dónde empieza, su tema y cómo se ha colocado (lo usa la cripta)
+let SUB_Y = GROUND + 200, SUB_TEMA = 'piedra', SUB_TEMA_P = 'piedra', SUB_L = null, subColorKey = null, subParKey = null;   // dónde empieza, su tema y cómo se ha colocado (lo usa la cripta)
 const subCarga = {};
 function subTex(tema, cb) {   // carga el dibujo de un tema con sus tres franjas: cripta, tierra y cripta
   const key = 'sub_' + tema; if (!scene || !SUBSUELO.temas[tema]) return;
@@ -290,13 +293,26 @@ function subFranjas(tex) {
   const w = tex.source[0].width, h = tex.source[0].height, { xa, xb } = SUBSUELO;
   tex.add('L', 0, 0, 0, xa, h); tex.add('M', 0, xa, 0, xb - xa, h); tex.add('R', 0, xb, 0, w - xb, h); return tex;
 }
-function subColor(sc, tema) {   // las gemas de cada cripta, con el color de su bando (cian y morado son los de siempre)
-  const base = 'sub_' + tema, cb = TEAM_COLOR.blue, cp = TEAM_COLOR.purple;
+function subPar(sc, a, b) {   // tu mitad con tu tema y la del rival con el suyo; la tierra del medio pasa de uno a otro poco a poco
+  if (a === b || !sc.textures.exists('sub_' + b)) return 'sub_' + a;
+  const key = 'subp_' + a + '|' + b; if (sc.textures.exists(key)) return key;
+  if (subParKey && sc.textures.exists(subParKey)) sc.textures.remove(subParKey);
+  const A = sc.textures.get('sub_' + a).getSourceImage(), Bi = sc.textures.get('sub_' + b).getSourceImage(), w = A.width, h = A.height, { xa, xb } = SUBSUELO;
+  const cv = document.createElement('canvas'); cv.width = w; cv.height = h; const c = cv.getContext('2d');
+  c.drawImage(A, 0, 0); c.drawImage(Bi, xb, 0, w - xb, h, xb, 0, w - xb, h);
+  const m = document.createElement('canvas'); m.width = xb - xa; m.height = h; const mc = m.getContext('2d');
+  mc.drawImage(Bi, xa, 0, xb - xa, h, 0, 0, xb - xa, h); mc.globalCompositeOperation = 'destination-in';
+  const g = mc.createLinearGradient(0, 0, xb - xa, 0); g.addColorStop(0.15, 'rgba(0,0,0,0)'); g.addColorStop(0.85, 'rgba(0,0,0,1)'); mc.fillStyle = g; mc.fillRect(0, 0, xb - xa, h);
+  c.drawImage(m, xa, 0);
+  subParKey = key; subFranjas(sc.textures.addCanvas(key, cv)); return key;
+}
+function subColor(sc, base, TL, TR) {   // las gemas de cada cripta, con el color de su bando (cian y morado son los de siempre)
+  const cb = TEAM_COLOR.blue, cp = TEAM_COLOR.purple;
   if (cb === 'azul' && cp === 'morado') return base;
   const key = base + '@' + cb + ',' + cp; if (sc.textures.exists(key)) return key;
   if (subColorKey && sc.textures.exists(subColorKey)) sc.textures.remove(subColorKey);   // solo se guarda la última
   const src = sc.textures.get(base).getSourceImage(), cv = document.createElement('canvas'); cv.width = src.width; cv.height = src.height;
-  const c = cv.getContext('2d', { willReadFrequently: true }), T = SUBSUELO.temas[tema]; c.drawImage(src, 0, 0);
+  const c = cv.getContext('2d', { willReadFrequently: true }), T = { L: TL.L, R: TR.R }; c.drawImage(src, 0, 0);
   for (const [lado, col, def, h0, h1] of [['L', cb, 'azul', 0.44, 0.58], ['R', cp, 'morado', 0.70, 0.86]]) {
     if (col === def || !COLORES[col]) continue;
     const t = [1, 3, 5].map(i => parseInt(COLORES[col][1].slice(i, i + 2), 16) / 255), dark = Math.max(...t) < 0.25, light = Math.min(...t) > 0.85;
@@ -346,7 +362,8 @@ function drawSubsuelo(sc, ytop, add, cx, vw, bot, grass) {
   SUB_Y = ytop; SUB_L = null;
   const T = SUBSUELO.temas[SUB_TEMA];
   if (!T || !sc.textures.exists('sub_' + SUB_TEMA)) { subTex(SUB_TEMA, () => drawScenery(scene)); return subsueloProv(sc, ytop, add, cx, vw, bot, grass); }
-  const key = subColor(sc, SUB_TEMA), src = sc.textures.get(key).getSourceImage(), IW = src.width, IH = src.height, { xa, xb } = SUBSUELO;
+  const TP = SUBSUELO.temas[SUB_TEMA_P] && sc.textures.exists('sub_' + SUB_TEMA_P) ? SUBSUELO.temas[SUB_TEMA_P] : T;
+  const key = subColor(sc, subPar(sc, SUB_TEMA, TP === T ? SUB_TEMA : SUB_TEMA_P), T, TP), src = sc.textures.get(key).getSourceImage(), IW = src.width, IH = src.height, { xa, xb } = SUBSUELO;
   // lo que se ve del subsuelo (en píxeles css): en batalla, hasta el panel de cartas o, en horizontal, la esquina libre a su lado
   const z = cam.zoom, k = DPR / z, left = cx - vw / 2, top = bot - cam.height / z, ug = (ytop - top) / k, ih = window.innerHeight;
   let Hc = (ih - ug) * k, Wc = vw, esq = false;

diff --git a/prototipos/batalla/reino.js b/prototipos/batalla/reino.js
@@ -131,7 +131,8 @@ const ASPECTOS_POS = __ASPECTOS__;
 const ASPECTOS = [['piedra', 'Castillo de piedra'], ['roble', 'Fortaleza del Roble'], ['luna', 'Castillo Lunar'], ['vitral', 'Catedral de Vitrales'], ['marea', 'Alcázar de las Mareas'],
   ['dragon', 'Fortaleza del Dragón'], ['engranaje', 'Castillo de Engranajes'], ['hielo', 'Fortaleza de Hielo'], ['grifo', 'Alcázar del Grifo'], ['arena', 'Fortaleza de Arena'],
   ['trueno', 'Castillo del Trueno'], ['pagoda', 'Castillo Pagoda'], ['farol', 'Castillo de los Faroles'], ['carnero', 'Fortín del Carnero'], ['escarabajo', 'Templo del Escarabajo'],
-  ['golem', 'Fortaleza Gólem'], ['murcielago', 'Castillo del Murciélago'], ['loto', 'Palacio del Loto'], ['sol', 'Ciudadela del Sol']];
+  ['golem', 'Fortaleza Gólem'], ['murcielago', 'Castillo del Murciélago'], ['loto', 'Palacio del Loto'], ['sol', 'Ciudadela del Sol'],
+  ['candado', 'Fortaleza del Candado'], ['setas', 'Castillo de las Setas']];
 const ASP_PRECIO = 150;
 for (const [id, v] of Object.entries(ASPECTOS_POS)) if (v.ban) { BANNERS['cas_' + id] = v.ban; BANNERS['cas_' + id + '_d'] = (v.d && v.d.ban) || v.ban; }
 const aspTiene = id => id === 'piedra' || perfil.all || (perfil.aspectos || []).includes(id);
@@ -336,12 +337,27 @@ function atkK(u) { return moveK(u); }   // la velocidad de ataque sigue a la de 
 const _ghR = gullHaste;
 gullHaste = function (u) { return _ghR(u) * (mode === 'fight' && B && !B.idle ? moveK(u) : 1); };
 const teamBuffK = team => team === 'blue' && B && B.beast && B.beast.id === 'grifo' ? 1 + B.beast.v : 1;
+// aspecto de los castillos rivales: los vasallos de cada reino alternan dos de su tema y el castillo real lleva el suyo;
+// en la batalla rápida (y en la del menú), uno al azar. 'piedra' es el castillo de siempre
+const RIVAL_ASP = { praderas: [['piedra', 'roble'], 'grifo'], bosque: [['roble', 'pagoda'], 'golem'], desierto: [['arena', 'escarabajo'], 'sol'],
+  nieve: [['hielo', 'luna'], 'trueno'], pantano: [['loto', 'murcielago'], 'golem'], volcan: [['farol', 'dragon'], 'dragon'], playa: [['marea', 'vitral'], 'marea'],
+  setas: [['setas', 'loto'], 'setas'], huesos: [['carnero', 'murcielago'], 'dragon'], engranajes: [['engranaje', 'candado'], 'engranaje'],
+  cristal: [['vitral', 'luna'], 'vitral'], cementerio: [['murcielago', 'candado'], 'murcielago'], cielo: [['grifo', 'sol'], 'pagoda'] };
+function rivalAspecto(o) {
+  if (o.run && o.run.kind === 'nivel') { const r = RIVAL_ASP[o.run.k], lv = KD(o.run.k).levels[o.run.i]; return !r ? null : lv.royal ? r[1] : r[0][o.run.i % r[0].length]; }
+  const ids = ASPECTOS.map(a => a[0]); return ids[Math.floor(Math.random() * ids.length)];
+}
 const _resetR = resetBattle;
 resetBattle = function (o = {}) {
   _resetR(o);
   const sk = mySkin(); CASTLE_SKIN.blue = sk && scene && scene.textures.exists('cas_' + sk) ? Object.assign({ id: sk }, ASPECTOS_POS[sk]) : null;
   SUB_TEMA = SUBSUELO.temas[sk] ? sk : 'piedra';   // el subsuelo, con las criptas a juego con tu castillo
   if (!o.sim && scene) subTex(SUB_TEMA, () => drawScenery(scene));
+  // el rival, con su aspecto, su subsuelo y su cripta
+  const ps = o.sim ? null : rivalAspecto(o), esta = B; CASTLE_SKIN.purple = null; if (castleImg.purple) castleImg.purple.state = undefined;
+  SUB_TEMA_P = SUBSUELO.temas[ps] ? ps : 'piedra';
+  if (ps && ps !== 'piedra' && ASPECTOS_POS[ps] && scene) skinTex(ps, () => { if (B !== esta) return; CASTLE_SKIN.purple = Object.assign({ id: ps }, ASPECTOS_POS[ps]); if (castleImg.purple) castleImg.purple.state = undefined; });
+  if (!o.sim && scene) subTex(SUB_TEMA_P, () => { if (B === esta) drawScenery(scene); });
   if (sk && !CASTLE_SKIN.blue) skinTex(sk);
   if (castleImg.blue) castleImg.blue.state = undefined;   // se vuelve a pintar con su aspecto
   const real = !o.demo && !o.sim;
@@ -609,4 +625,4 @@ loaded = function () { _loadedR(); skinTex(mySkin()); subTex(SUBSUELO.temas[mySk
 const _dsR = drawScenery;
 drawScenery = function (sc) { _dsR(sc); colocaCripta(); };
 window.__sub = () => { const gm = window.__game, z = cam.zoom, k = DPR / z; return { SUB_Y, k, left: cam.scrollX + cam.width / 2 - gm.scale.width / 2 / z, top: cam.scrollY + cam.height / 2 - gm.scale.height / 2 / z, vw: gm.scale.width / z, cripta: CRIPTA && { x: CRIPTA.x, y: CRIPTA.y, w: CRIPTA.w, h: CRIPTA.h }, tema: SUB_TEMA, capa: SUB_L && { s: SUB_L.s, yi: SUB_L.yi, Lx: SUB_L.Lx, Rx: SUB_L.Rx, esq: SUB_L.esq }, bst: BST && { x: BST.x, y: BST.y, h: BST.displayHeight, v: BST.visible } }; };
-window.__B = () => B; window.__skin = () => CASTLE_SKIN.blue; window.__openHogar = openHogar; window.__openEdif = openEdif; window.__lanzar = lanzar; window.__cuartel = () => cuSlots();
+window.__B = () => B; window.__skin = () => CASTLE_SKIN.blue; window.__skinP = () => CASTLE_SKIN.purple && CASTLE_SKIN.purple.id; window.__openHogar = openHogar; window.__openEdif = openEdif; window.__lanzar = lanzar; window.__cuartel = () => cuSlots();

diff --git a/prototipos/batalla/plantilla.html b/prototipos/batalla/plantilla.html
@@ -501,8 +501,7 @@ body.nav .screen.maps .mapscroll { padding-bottom: 0; }
 .loadbar { height: 22px; padding: 5px 7px; }
 .xpbar span, #loadfill { background: none; border-style: solid; border-image: url(img/ui/barra_relleno.png) 11 12 fill / 5px 6px; box-sizing: border-box; }
 /* fondos: la carga, con los héroes arriba y abajo y el logo en el hueco del centro; las demás pantallas, el azul */
-#carga { background: #131a31 url(img/ui/fondo_carga.jpg) center / cover no-repeat; }
-@media (orientation: landscape) { #carga { background: url(img/ui/fondo_carga.jpg) center / auto 100% no-repeat, linear-gradient(rgba(16,22,46,.72), rgba(16,22,46,.8)), #17306e url(img/ui/fondo_azul.jpg) center / cover no-repeat; } }   /* entero en el centro y, a los lados, el azul */
+#carga { background: linear-gradient(rgba(16,22,46,.5), rgba(16,22,46,.66)), #17306e url(img/ui/fondo_azul.jpg) center / cover no-repeat; }   /* el mismo fondo azul que las demás pantallas */
 #carga #loadtxt, #carga .tip { background: rgba(16,21,42,.78); border-radius: 12px; padding: 4px 12px; text-shadow: 0 1px 0 #000; }   /* legibles aunque pasen sobre los héroes */
 .screen.tabscr, .screen.hogar { background: linear-gradient(rgba(16,22,46,.62), rgba(16,22,46,.72)), #17306e url(img/ui/fondo_azul.jpg) center / cover no-repeat; }
 @media (orientation: landscape) and (max-height: 520px) { .side { top: calc(var(--st) + 70px); gap: 4px; } .sico { width: 38px; height: 38px; } .slbl { display: none; } .sbtn { width: 46px; } }

diff --git a/herramientas/interfaz_arte.py b/herramientas/interfaz_arte.py
@@ -1,4 +1,4 @@
-# Prepara el arte de la interfaz (assets/interfaz): el fondo de la pantalla de carga, el fondo azul de las pantallas,
+# Prepara el arte de la interfaz (assets/interfaz): el fondo azul de las pantallas (también la de carga),
 # los 8 botones de los lados de Campaña y las piezas de arriba (marco del avatar con su nivel, cápsulas de oro y de
 # diamantes, barra de experiencia y su relleno). El halo de las piezas se recorta: queda solo lo opaco.
 # Uso: python3 herramientas/interfaz_arte.py   → docs/img/ui/*
@@ -6,7 +6,7 @@ import os, numpy as np
 from PIL import Image
 R = os.path.abspath(os.path.join(os.path.dirname(__file__), '..')); SRC = os.path.join(R, 'assets/interfaz'); OUT = os.path.join(R, 'docs/img/ui')
 os.makedirs(OUT, exist_ok=True)
-for n in ('fondo_carga', 'fondo_azul'):
+for n in ('fondo_azul',):
     Image.open(os.path.join(SRC, n + '.png')).convert('RGB').save(os.path.join(OUT, n + '.jpg'), quality=86, optimize=True, progressive=True)
 def pieza(src, box, n, alto=None, ancho=None, corte=110):
     im = Image.open(os.path.join(SRC, 'campana', src + '.png')).convert('RGBA').crop(box)

diff --git a/DISENO.md b/DISENO.md
@@ -182,7 +182,7 @@ Cada unidad mejora por dos caminos: el **nivel** y el **rango**.
 - **Reino**: el dibujo del reino de fondo (tejados, banderas y estandartes con el color de tu estandarte); cada
   lugar se toca en el dibujo o en su cartel, la vista se acerca y se entra. Cada lugar lleva su dibujo arriba:
   - **Taberna**: 2 mercenarios cada 4 horas, con oro.
-  - **Murallas**: estandarte (color y emblema), aspecto del castillo (18 castillos además del de piedra, 150 diamantes
+  - **Murallas**: estandarte (color y emblema), aspecto del castillo (20 castillos además del de piedra, 150 diamantes
     cada uno; con tu color y tu emblema en sus estandartes y arqueros. Con media vida pasa a su dibujo dañado
     (estandarte rasgado, grietas, fuego) y al caer, a sus ruinas con el estandarte caído en tu color; un aspecto
     nuevo sin esos dibujos se oscurece con grietas y cae en el montón genérico) y
